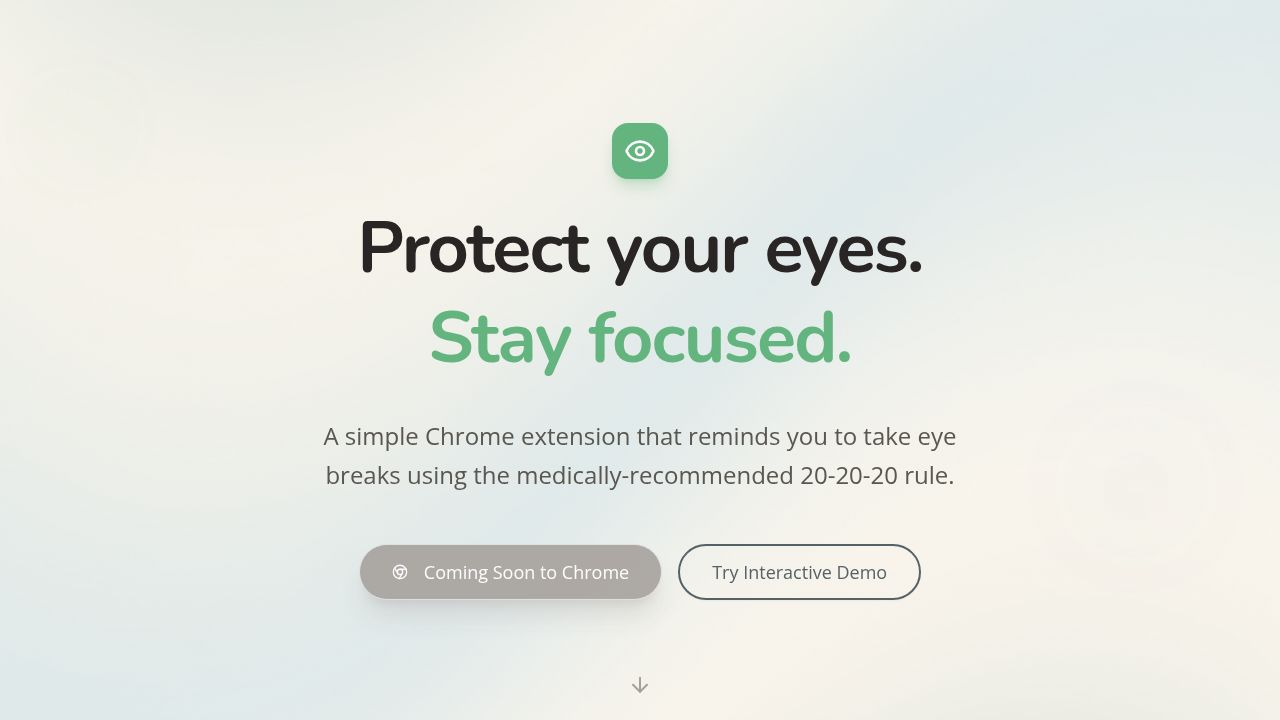
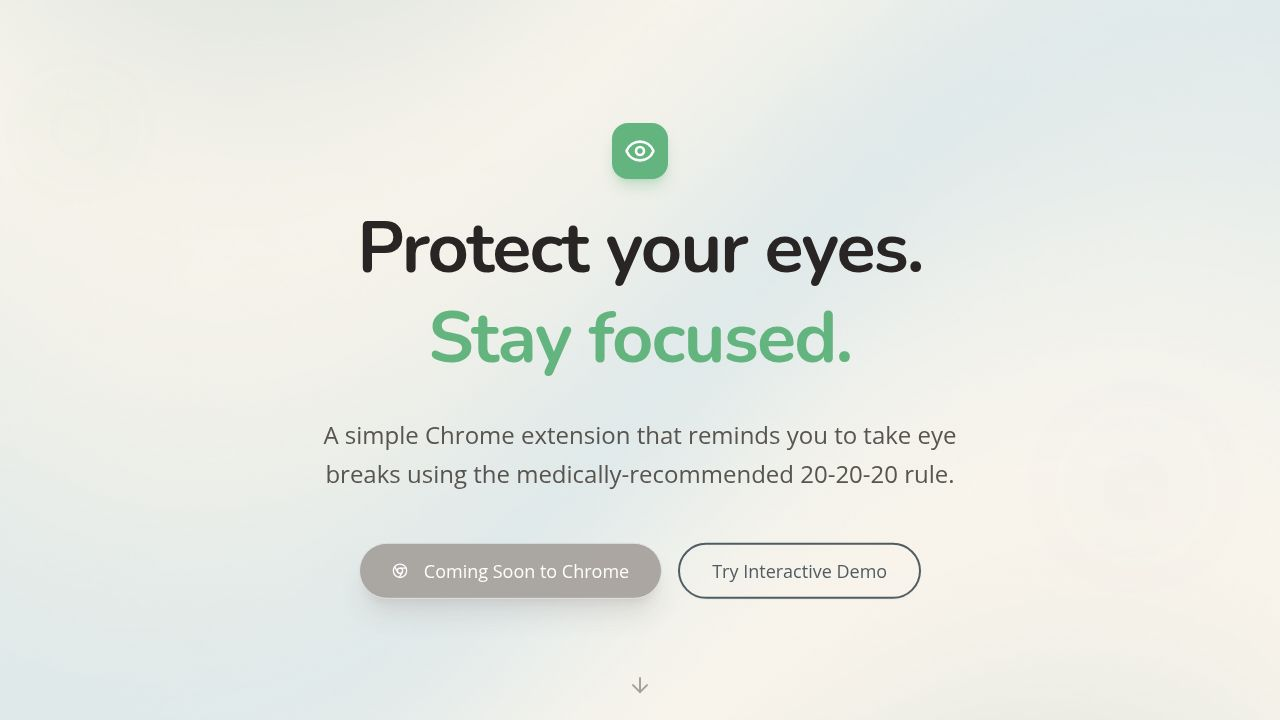
Update page buttons to link to the Chrome Web Store
Replace "Coming Soon to Chrome" text with "Add to Chrome — It's Free" and update button links to the provided Chrome Web Store URL in extension-mockup.tsx.

Replit-Commit-Author: Agent
Replit-Commit-Session-Id: f971965f-90eb-4a8e-b5b4-81e8cd9a0f20
Replit-Commit-Checkpoint-Type: full_checkpoint
Replit-Commit-Event-Id: f2934310-9c57-4b2d-9d79-fe2aa6a3f319
Replit-Commit-Screenshot-Url: https://storage.googleapis.com/screenshot-production-us-central1/32b9156d-2f1e-4c9f-b491-4b320ce9134b/f971965f-90eb-4a8e-b5b4-81e8cd9a0f20/3McGNNK
Replit-Helium-Checkpoint-Created: true

Changed region(s): [[0.25, 0.5806, 0.75, 0.6722], [0.5312, 0.7333, 0.7188, 0.8556], [0.375, 0.7944, 0.4062, 0.825]]

diff --git a/client/src/pages/extension-mockup.tsx b/client/src/pages/extension-mockup.tsx
@@ -99,19 +99,20 @@ export function ExtensionMockup() {
             animate={{ opacity: 1, y: 0 }}
             transition={{ duration: 0.6, delay: 0.3 }}
           >
-            <div className="relative group">
+            <a 
+              href="https://chromewebstore.google.com/detail/digital-eye-relief/dpolekhjjdagbjlohnpogappckndikin"
+              target="_blank"
+              rel="noopener noreferrer"
+            >
               <Button 
                 size="lg" 
-                className="h-14 px-8 text-lg rounded-full bg-stone-400 hover:bg-stone-500 shadow-xl shadow-stone-400/30 transition-all cursor-default"
+                className="h-14 px-8 text-lg rounded-full bg-primary hover:bg-primary/90 shadow-xl shadow-primary/30 transition-all"
                 data-testid="button-add-to-chrome"
               >
                 <Chrome className="w-5 h-5 mr-2" />
-                Coming Soon to Chrome
+                Add to Chrome — It's Free
               </Button>
-              <div className="absolute -bottom-12 left-1/2 -translate-x-1/2 bg-stone-800 text-white text-sm px-4 py-2 rounded-lg opacity-0 group-hover:opacity-100 transition-opacity whitespace-nowrap pointer-events-none">
-                Currently in review — check back soon!
-              </div>
-            </div>
+            </a>
             <Button 
               size="lg" 
               variant="outline"
@@ -410,19 +411,20 @@ export function ExtensionMockup() {
             Start taking care of your eyes today with a simple, free tool designed for healthier screen time.
           </p>
           
-          <div className="relative group inline-block">
+          <a 
+            href="https://chromewebstore.google.com/detail/digital-eye-relief/dpolekhjjdagbjlohnpogappckndikin"
+            target="_blank"
+            rel="noopener noreferrer"
+          >
             <Button 
               size="lg" 
-              className="h-16 px-10 text-xl rounded-full bg-stone-400 hover:bg-stone-500 shadow-xl shadow-stone-400/30 transition-all cursor-default"
+              className="h-16 px-10 text-xl rounded-full bg-primary hover:bg-primary/90 shadow-xl shadow-primary/30 transition-all"
               data-testid="button-download-cta"
             >
               <Chrome className="w-6 h-6 mr-3" />
-              Coming Soon to Chrome
+              Add to Chrome — It's Free
             </Button>
-            <div className="absolute -bottom-12 left-1/2 -translate-x-1/2 bg-stone-800 text-white text-sm px-4 py-2 rounded-lg opacity-0 group-hover:opacity-100 transition-opacity whitespace-nowrap pointer-events-none">
-              Currently in review — check back soon!
-            </div>
-          </div>
+          </a>
           
           <div className="flex items-center justify-center gap-6 mt-8 text-sm text-stone-500">
             <div className="flex items-center gap-2">
